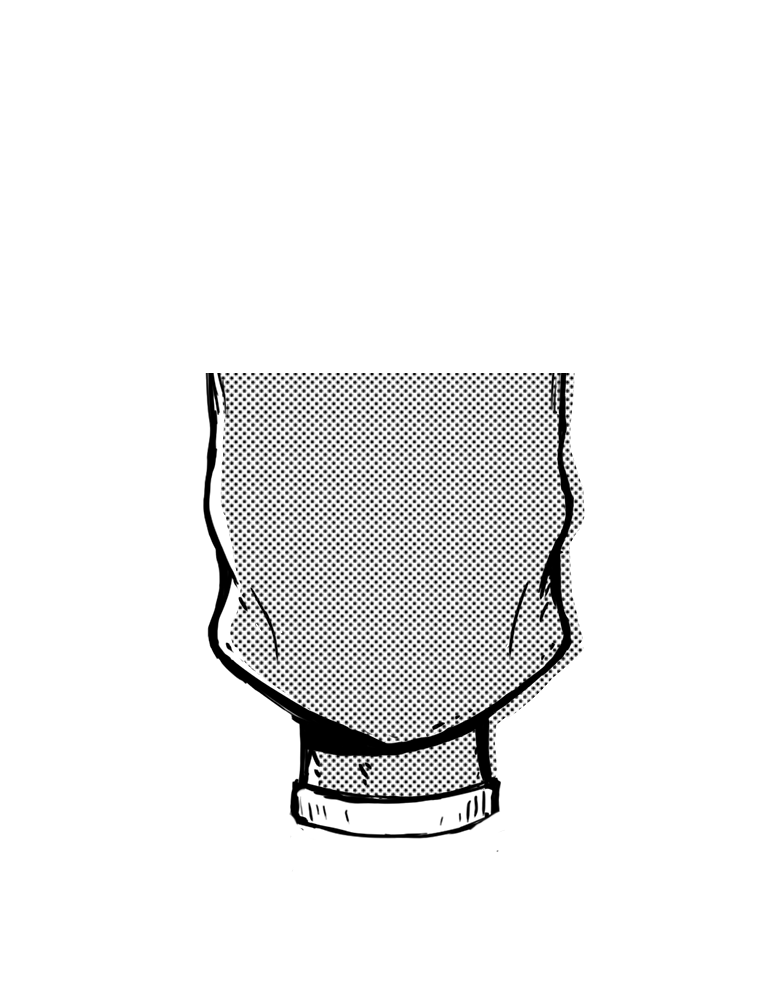
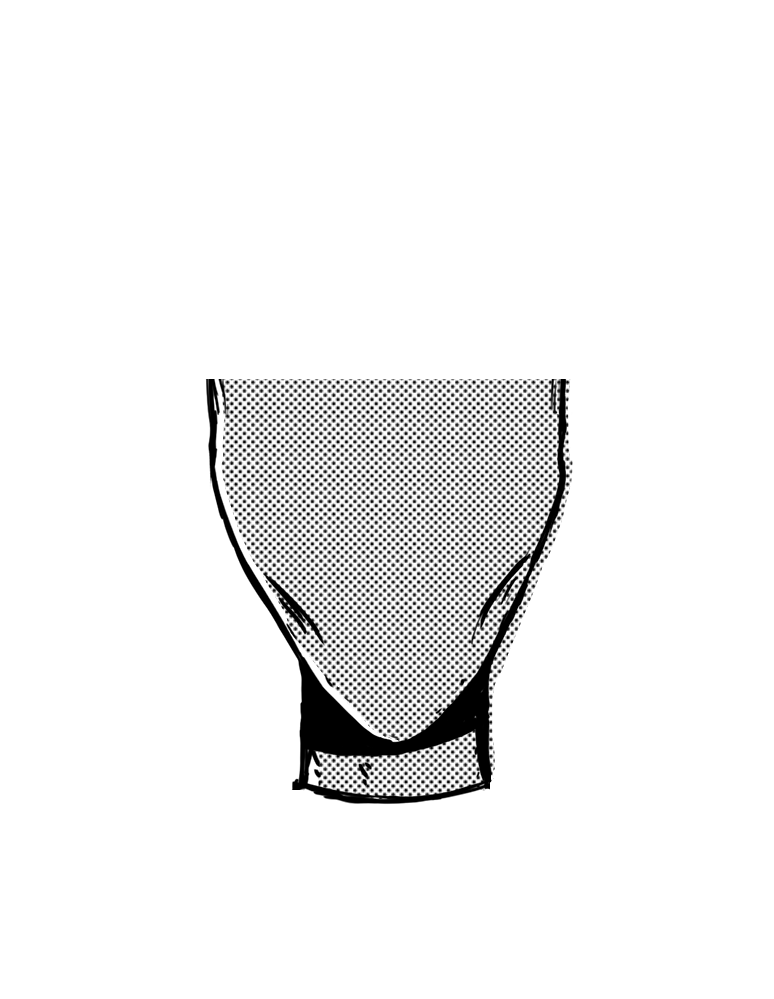
moved assets order

Changed region(s): [[0.2481, 0.3724, 0.7752, 0.7447], [0.3721, 0.7758, 0.6512, 0.8378]]

diff --git a/Shapeshift Agent/Assets/scripts/model/FacesDatabase.cs b/Shapeshift Agent/Assets/scripts/model/FacesDatabase.cs
@@ -15,7 +15,7 @@ using System.Text;
             new FacePart(PartType.RIGHT_EYE, 5, 8.53f,7.02f),
             new FacePart(PartType.NOSE, 0, 0.08f, -5.05f),
             new FacePart(PartType.MOUTH, 0, 0.39f, -14.2f),
-            new FacePart(PartType.CONTOUR, 0, 0, 0),
+            new FacePart(PartType.CONTOUR, 1, 0, 0),
             new FacePart(PartType.HAIR, 0, 0, 0),
             HairColor.BROWN,
             SkinColor.BLACK
@@ -26,8 +26,8 @@ using System.Text;
             new FacePart(PartType.RIGHT_EYE, 2, 6.75f, 8.30f),
             new FacePart(PartType.NOSE, 1, 0.386f, -2.74f),
             new FacePart(PartType.MOUTH, 1, 1.38f, -15.54f),
-            new FacePart(PartType.CONTOUR, 1, 0, 0),
-            new FacePart(PartType.HAIR, 1, 0, 0),
+            new FacePart(PartType.CONTOUR, 0, 0, 0),
+            new FacePart(PartType.HAIR, 3, 0, 0),
             HairColor.BLONDE,
             SkinColor.WHITE
             );
@@ -35,7 +35,7 @@ using System.Text;
     public static Face Subject3 = new Face(
             new FacePart(PartType.LEFT_EYE, 1, -8.17f, 3.16f),
             new FacePart(PartType.RIGHT_EYE, 0, 9.144f, 5.22f),
-            new FacePart(PartType.NOSE, 2, 1.78f, -0.94f),
+            new FacePart(PartType.NOSE, 5, 1.78f, -0.94f),
             new FacePart(PartType.MOUTH, 2, 1.58f, -15.54f),
             new FacePart(PartType.CONTOUR, 2, 0, 0),
             new FacePart(PartType.HAIR, 2, 0, 0),
@@ -49,7 +49,7 @@ using System.Text;
         new FacePart(PartType.NOSE, 3, 1.382f, -3.51f),
         new FacePart(PartType.MOUTH, 3, 1.18f, -13.07f),
         new FacePart(PartType.CONTOUR, 3, 0, 0),
-        new FacePart(PartType.HAIR, 3, 0, 0),
+        new FacePart(PartType.HAIR, 1, 0, 0),
         HairColor.BLACK,
         SkinColor.BROWN
         );
@@ -60,13 +60,13 @@ using System.Text;
         new FacePart(PartType.RIGHT_EYE, 5, 8.54f, 3.16f),
         new FacePart(PartType.NOSE, 4, 1.382f, -3.51f),
         new FacePart(PartType.MOUTH, 4, 0.78f, -18.4f),
-        new FacePart(PartType.CONTOUR, 4, 0, 0),
+        new FacePart(PartType.CONTOUR, 5, 0, 0),
         new FacePart(PartType.HAIR, 4, 0, 0),
         HairColor.GINGER,
         SkinColor.WHITE
         );
 
 
-    public static Face SampleFace = Subject1;
+    public static Face SampleFace = Subject5;
     }
 
